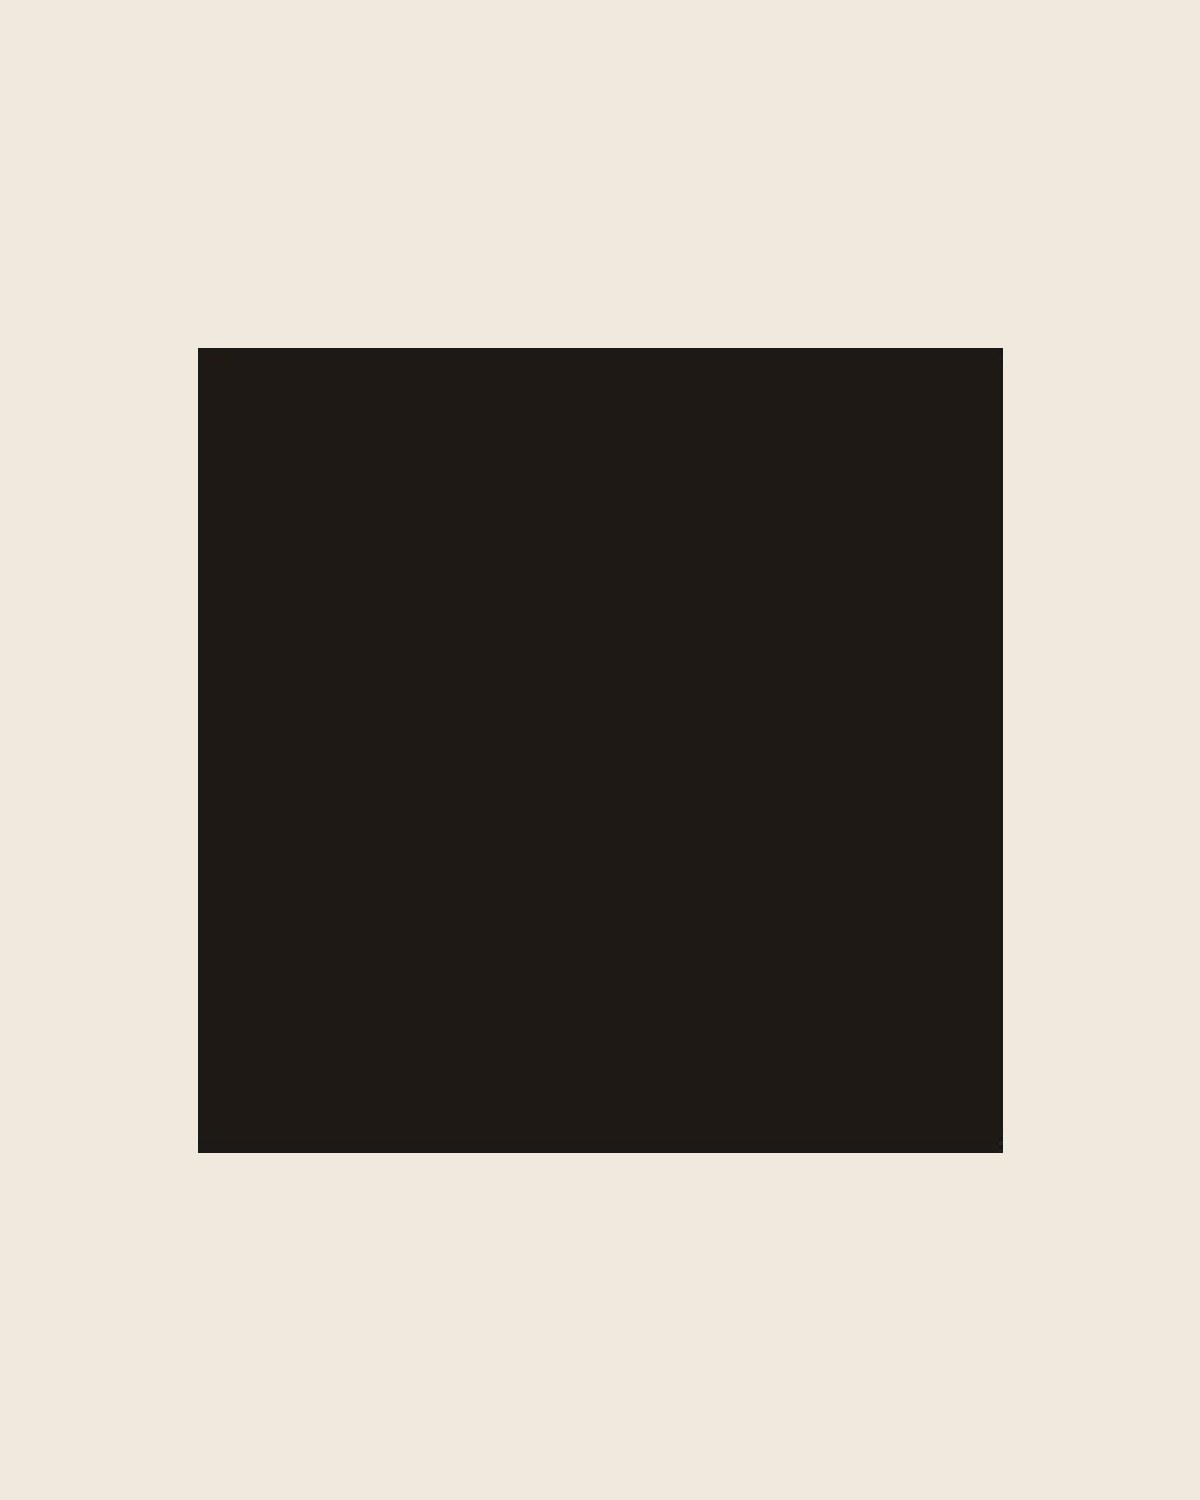
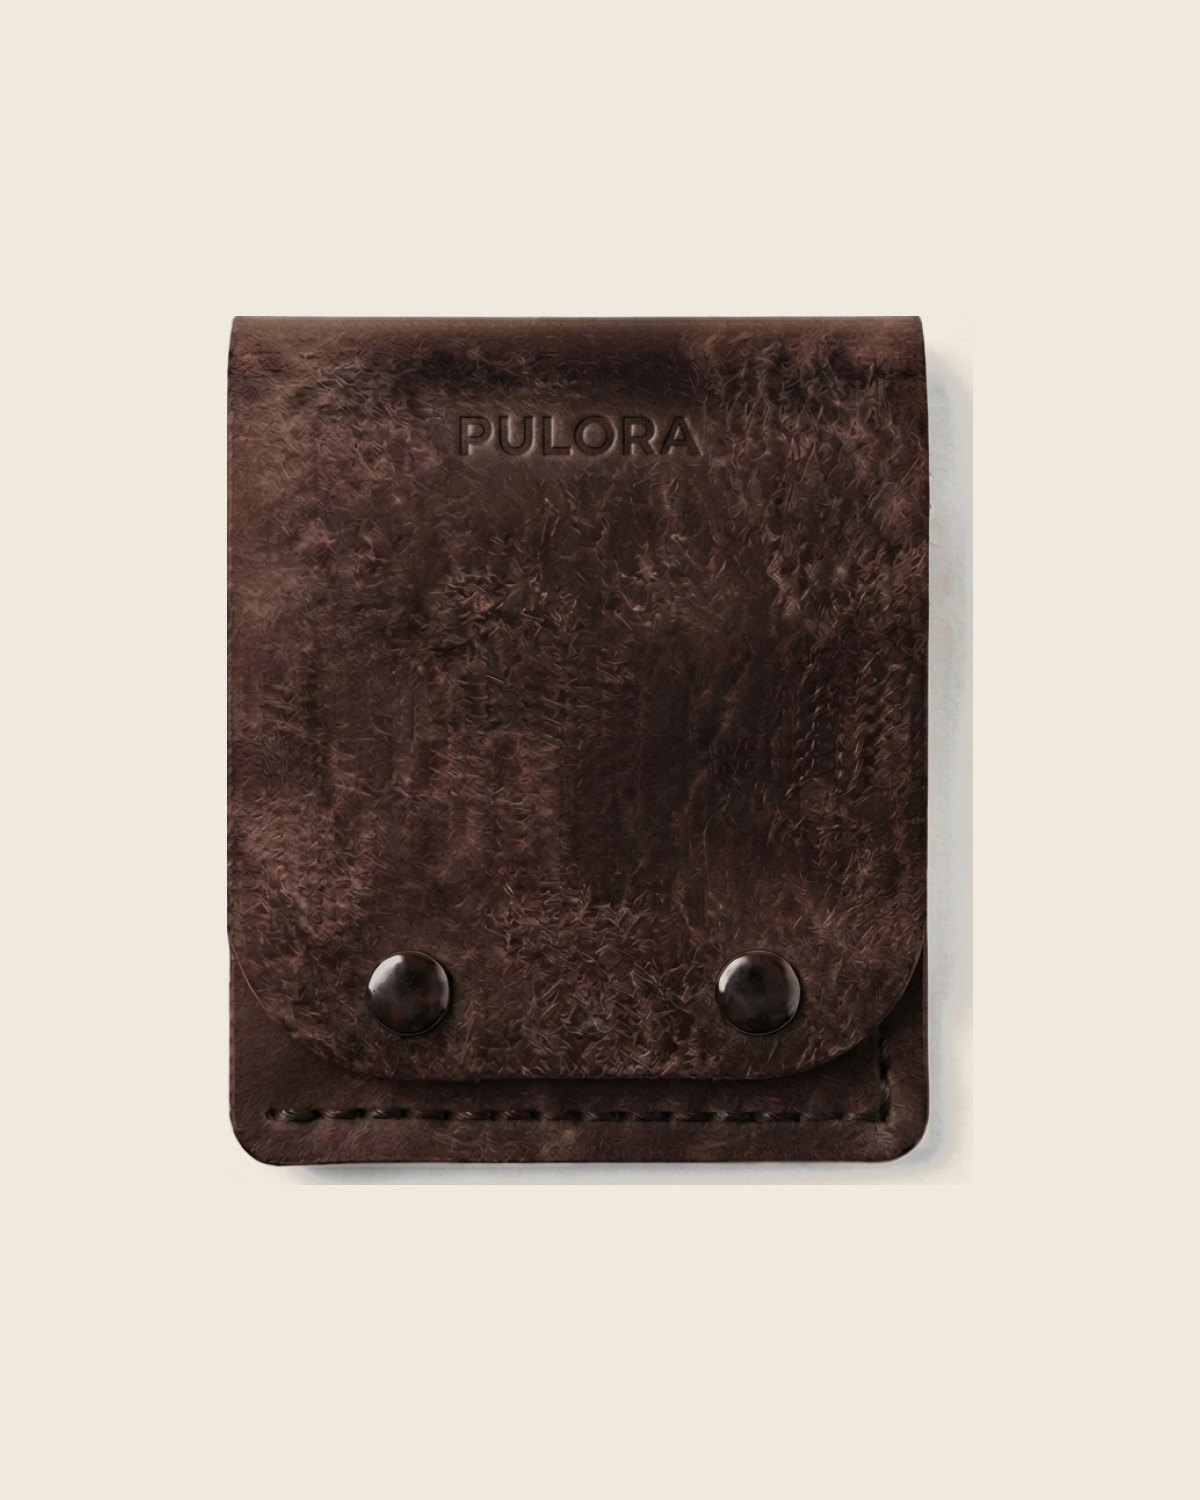
fix: x1.jpg shipped as a solid black rectangle
The Snap Card Case — Walnut tile has been a black square on the live grid
since the fixtures were committed. database/demo/card-holders/x1.jpg is 37KB
of flat colour: sampled across the product it measures a standard deviation of
0.00, where every real fixture measures at least 5.

Not a bug in the normalizer. Run against the same source today it produces a
correct 145KB photograph, and 9 of 10 other fixtures spot-checked reproduce
byte for byte — so this was a one-off failure during the run that generated
them, silently written and committed.

Nothing would have caught it. The file is a valid JPEG of the right dimensions
on the right background; the seeder wrote it, the page linked it, the browser
rendered it, the suite passed. Only a person looking at the grid could tell,
which is how it was found.

Rebuilds every fixture from source — only x1 changed — and adds a test that
measures the variation across the middle of each one, where the normalizer
centres the product. Leather at this size always carries grain, stitching or a
highlight. The threshold is 3.0: the flattest genuine fixture is 5.02 and the
black rectangle is 0.00, so it sits between them rather than being tuned to the
single file that failed. Verified it fails against the committed broken file.

Changed region(s): [[0.1542, 0.184, 0.8633, 0.7973], [0.5858, 0.46, 0.6167, 0.4907]]

diff --git a/tests/Feature/Seeders/DemoFixturesAreIntactTest.php b/tests/Feature/Seeders/DemoFixturesAreIntactTest.php
@@ -1,0 +1,60 @@
+<?php // tests/Feature/Seeders/DemoFixturesAreIntactTest.php
+
+use Illuminate\Support\Facades\File;
+
+/**
+ * The photographs in database/demo/card-holders are what a deploy builds the
+ * shop from — the originals in walletImages/ are gitignored and never reach a
+ * server. They are generated once, by hand, and committed; nothing regenerates
+ * or checks them afterwards.
+ *
+ * One of them, x1.jpg, was written as a solid black rectangle. The normalizer
+ * produces a correct image from the same source today and the other 71 files
+ * reproduce byte for byte, so it was a one-off failure during the run that
+ * made them — silently written, committed, copied into storage on every seed,
+ * and served on the live site for two days as a black tile in the grid.
+ *
+ * Nothing else would have caught it. The file is a valid JPEG of the right
+ * size; the seeder wrote it, the page linked it, the browser rendered it. Only
+ * a person looking at the grid could tell, which is exactly what happened.
+ */
+it('has no fixture that is a flat rectangle where a photograph should be', function () {
+    $files = File::files(database_path('demo/card-holders'));
+
+    expect($files)->not->toBeEmpty('the deploy fixtures are missing');
+
+    foreach ($files as $file) {
+        $image = imagecreatefromjpeg($file->getPathname());
+        $w = imagesx($image);
+        $h = imagesy($image);
+
+        // The middle of the frame is where the product is: the normalizer
+        // centres it and scales it to cover a set fraction of the canvas.
+        $samples = [];
+
+        for ($y = (int) ($h * 0.35); $y < (int) ($h * 0.65); $y += 8) {
+            for ($x = (int) ($w * 0.35); $x < (int) ($w * 0.65); $x += 8) {
+                $rgb = imagecolorat($image, $x, $y);
+                $samples[] = ((($rgb >> 16) & 255) + (($rgb >> 8) & 255) + ($rgb & 255)) / 3;
+            }
+        }
+
+        $mean = array_sum($samples) / count($samples);
+        $variance = 0;
+
+        foreach ($samples as $sample) {
+            $variance += ($sample - $mean) ** 2;
+        }
+
+        $deviation = sqrt($variance / count($samples));
+
+        // Leather photographed at this size always carries grain, stitching or
+        // a highlight. The flattest real fixture measures about 5; the black
+        // rectangle measured 0.00. Three sits between them with room either
+        // side, so this is not tuned to the one file that failed.
+        expect($deviation)->toBeGreaterThan(
+            3.0,
+            $file->getFilename().' is flat — it is a solid block of colour, not a photograph',
+        );
+    }
+});
